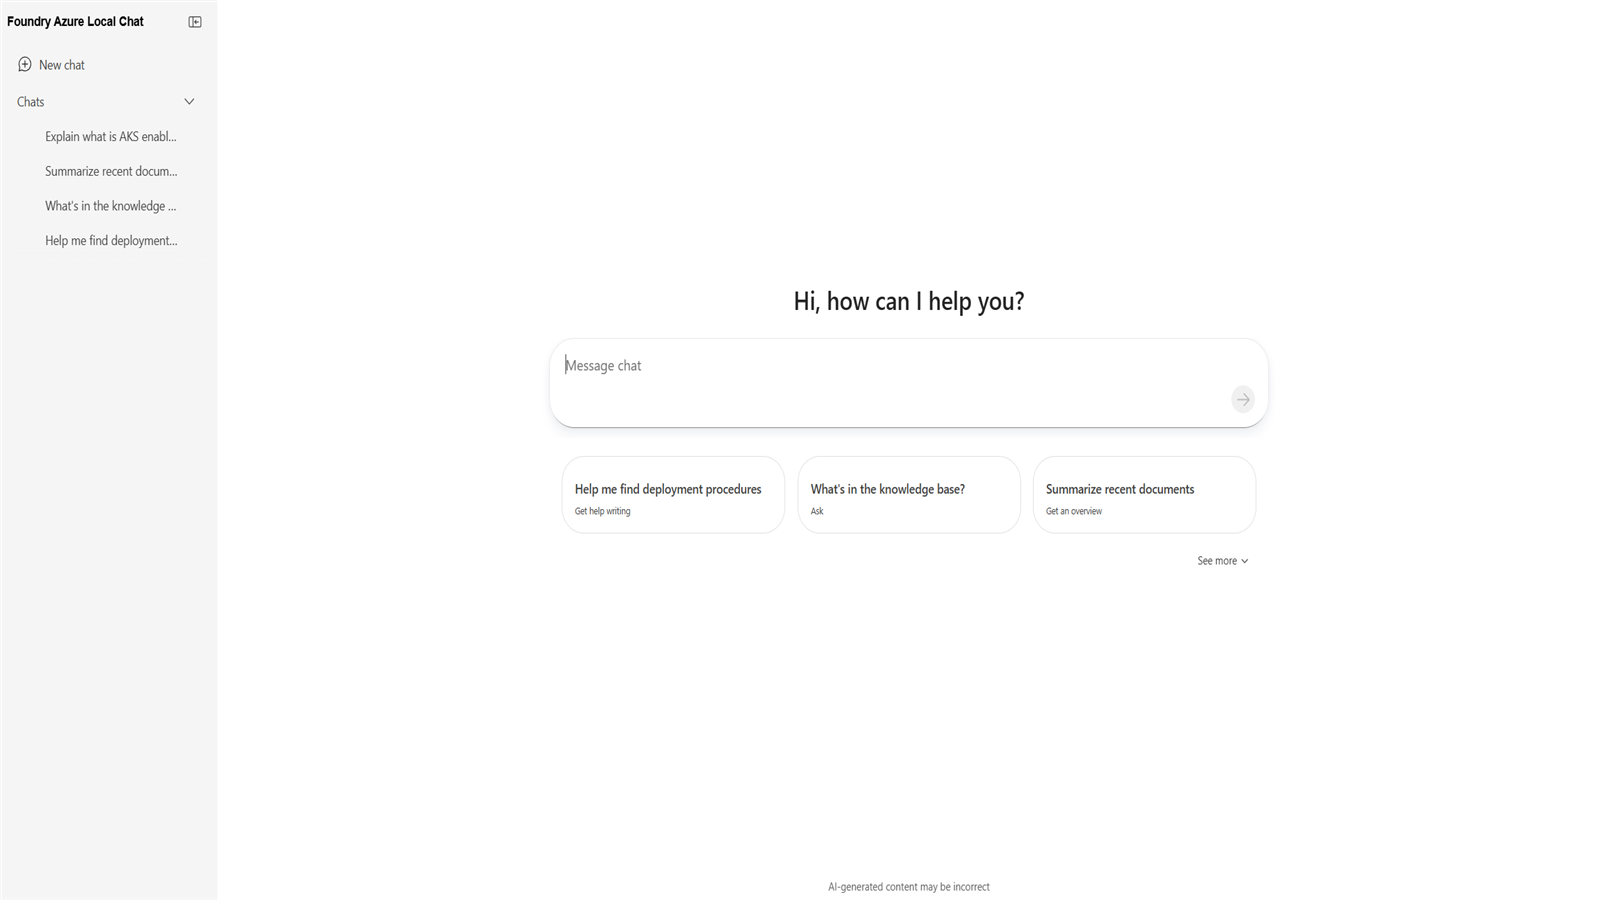
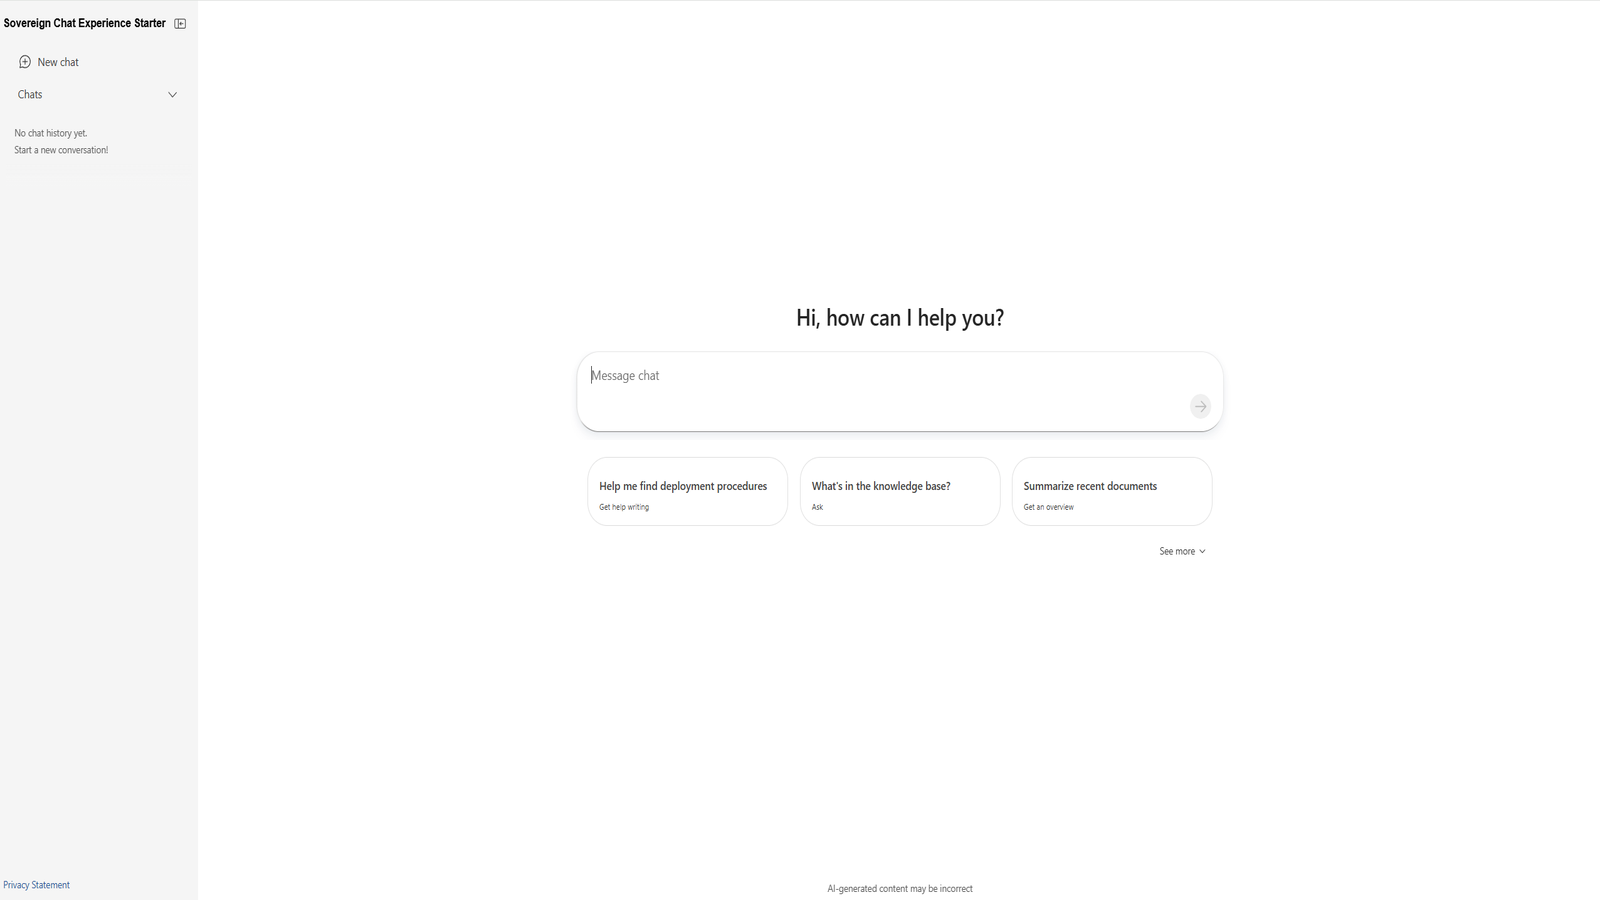
Rename project from Foundry Azure Local Chat to Sovereign Chat Experience Starter

diff --git a/src/components/ChatHistory/ChatHistory.tsx b/src/components/ChatHistory/ChatHistory.tsx
@@ -43,11 +43,13 @@ const useStyles = makeStyles({
     overflowX: "hidden",
   },
   header: {
-    display: "grid",
-    gridTemplateColumns: "max-content 1fr max-content",
+    display: "flex",
+    flexDirection: "row",
     alignItems: "center",
-    paddingInline: tokens.spacingHorizontalXS,
-    gap: tokens.spacingHorizontalS,
+    width: "100%",
+    boxSizing: "border-box",
+    paddingInline: 0,
+    gap: tokens.spacingHorizontalXXS,
     fontWeight: tokens.fontWeightSemibold,
   },
   headerButton: {
@@ -56,8 +58,9 @@ const useStyles = makeStyles({
     border: "none",
     display: "flex",
     alignItems: "center",
-    gap: tokens.spacingHorizontalS,
-    padding: `${tokens.spacingVerticalXS} ${tokens.spacingHorizontalS} ${tokens.spacingVerticalXS} 0`,
+    whiteSpace: "nowrap",
+    gap: tokens.spacingHorizontalXXS,
+    padding: `${tokens.spacingVerticalXS} 0 ${tokens.spacingVerticalXS} 0`,
     borderRadius: tokens.borderRadiusMedium,
     fontWeight: tokens.fontWeightSemibold,
     fontSize: tokens.fontSizeBase300,
@@ -170,7 +173,7 @@ export const ChatHistory = ({
         defaultOpenCategories={["chats"]}
         onNavItemSelect={handleValueChange}
       >
-        <CopilotNavDrawerHeader>
+        <CopilotNavDrawerHeader style={{ paddingInlineStart: 0 }}>
           <div className={styles.header}>
             <button className={styles.headerButton} onClick={handleAppHeaderClick} type="button">
               <AppIcon showKey="sidebar.showIcon" iconKey="sidebar.icon" size={20} />

diff --git a/docs/.vitepress/config.ts b/docs/.vitepress/config.ts
@@ -5,8 +5,8 @@ import { generateSidebar } from "vitepress-sidebar";
 import { withMermaid } from "vitepress-plugin-mermaid";
 
 export default withMermaid(defineConfig({
-  title: "Foundry Azure Local Chat",
-  description: "Documentation for Foundry Azure Local Chat",
+  title: "Sovereign Chat Experience Starter",
+  description: "Documentation for Sovereign Chat Experience Starter",
   srcDir: "src",
   outDir: "./dist",
   base: "/",

diff --git a/src/config/constants.ts b/src/config/constants.ts
@@ -33,9 +33,9 @@ const DEFAULTS: TypedConfigOptions = {
   "query.theme": "theme",
 
   // App info
-  "app.name": "Foundry Azure Local Chat",
+  "app.name": "Sovereign Chat Experience Starter",
   "app.version": "1.0.0",
-  "app.title": "Foundry Azure Local Chat",
+  "app.title": "Sovereign Chat Experience Starter",
   "app.favicon": "",
 
   // Copilot settings

diff --git a/src/localization/en.ts b/src/localization/en.ts
@@ -6,9 +6,9 @@ const TEXT = {
   "general.pageNotFound": "Sorry, we can't find that page.",
 
   // Chat
-  "chat.name": "Foundry Azure Local Chat",
+  "chat.name": "Sovereign Chat Experience Starter",
   "chat.placeholder": "Message chat",
-  "chat.ariaLabel": "Foundry Azure Local Chat",
+  "chat.ariaLabel": "Sovereign Chat Experience Starter",
   "chat.emptyState": "How can I help you today?",
   "chat.welcomeTitle": "Hi, how can I help you?",
   "chat.error": "Sorry, there was an error processing your request.",

diff --git a/server/index.ts b/server/index.ts
@@ -1,7 +1,7 @@
 // Copyright (c) Microsoft Corporation.
 // Licensed under the MIT License.
 /**
- * Foundry Azure Local Chat Server
+ * Sovereign Chat Experience Starter Server
  *
  * Reference implementation for Microsoft Foundry integration.
  * See /server/routes for API endpoints.

diff --git a/server/scripts/create-agent.js b/server/scripts/create-agent.js
@@ -18,7 +18,7 @@ import { DefaultAzureCredential } from "@azure/identity";
 const endpoint = process.env.AI_PROJECT_ENDPOINT;
 const model = process.env.AI_MODEL_DEPLOYMENT || process.env.AI_MODEL_NAME || "gpt-4o-mini";
 const agentName = process.env.AGENT_NAME || "foundry-chat-agent";
-const instructions = process.env.AGENT_INSTRUCTIONS || "You are a helpful AI assistant for the Foundry Azure Local Chat application.";
+const instructions = process.env.AGENT_INSTRUCTIONS || "You are a helpful AI assistant for the Sovereign Chat Experience Starter application.";
 
 if (!endpoint) {
   console.error("❌ AI_PROJECT_ENDPOINT is required");

diff --git a/docs/src/2-guide/localization.md b/docs/src/2-guide/localization.md
@@ -4,7 +4,7 @@ order: 4
 
 # Localization
 
-Foundry Azure Local Chat supports localization with all UI strings externalized.
+Sovereign Chat Experience Starter supports localization with all UI strings externalized.
 
 > **Note:** Currently only **English** is implemented. The i18n framework is in place and ready for adding new languages, but no additional language files ship with the project yet.
 
@@ -49,9 +49,9 @@ function MyComponent() {
 | Key | Default Value |
 |-----|---------------|
 | `chat.welcomeTitle` | `"Hi, how can I help you?"` |
-| `chat.name` | `"Foundry Azure Local Chat"` |
+| `chat.name` | `"Sovereign Chat Experience Starter"` |
 | `chat.placeholder` | `"Message chat"` |
-| `chat.ariaLabel` | `"Foundry Azure Local Chat"` |
+| `chat.ariaLabel` | `"Sovereign Chat Experience Starter"` |
 | `chat.aiDisclaimer` | `"AI-generated content may be incorrect"` |
 | `chat.promptStartersLabel` | `"Suggested prompts"` |
 | `chat.promptStartersShowMore` | `"See more"` |
@@ -89,7 +89,7 @@ getText('myFeature.description', 'dynamic')
 export const es = {
   chat: {
     welcomeTitle: '¡Hola, cómo puedo ayudarte?',
-    name: 'Foundry Azure Local Chat',
+    name: 'Sovereign Chat Experience Starter',
     // ... all other strings
   },
 };
@@ -127,8 +127,8 @@ greeting: 'Hello {0}, welcome to {1}!',
 getText('sendPrompt', 'Help me write')
 // → "Send prompt: Help me write"
 
-getText('greeting', 'John', 'Foundry Azure Local Chat')
-// → "Hello John, welcome to Foundry Azure Local Chat!"
+getText('greeting', 'John', 'Sovereign Chat Experience Starter')
+// → "Hello John, welcome to Sovereign Chat Experience Starter!"
 ```
 
 ## Best Practices
@@ -137,4 +137,3 @@ getText('greeting', 'John', 'Foundry Azure Local Chat')
 2. **Descriptive keys** - Use dot notation: `feature.element.action`
 3. **Keep strings short** - Long text should be in docs, not UI
 4. **Test with long strings** - Some languages expand text by 30%+
-

diff --git a/docs/src/2-guide/configuration.md b/docs/src/2-guide/configuration.md
@@ -4,7 +4,7 @@ order: 3
 
 # Configuration
 
-Foundry Azure Local Chat uses a type-safe configuration system with full autocomplete support.
+Sovereign Chat Experience Starter uses a type-safe configuration system with full autocomplete support.
 
 ## Overview
 
@@ -81,9 +81,9 @@ config.isNotEmpty("chat.maxLength")
 
 | Key           | Type   | Default            | Description                       |
 | ------------- | ------ | ------------------ | --------------------------------- |
-| `app.name`    | string | `"Foundry Azure Local Chat"`   | Application display name          |
+| `app.name`    | string | `"Sovereign Chat Experience Starter"`   | Application display name          |
 | `app.version` | string | `"1.0.0"`          | Application version number        |
-| `app.title`   | string | `"Foundry Azure Local Chat"`   | Page title (shown in browser tab) |
+| `app.title`   | string | `"Sovereign Chat Experience Starter"`   | Page title (shown in browser tab) |
 | `app.favicon` | string | `"/favicon.ico"`   | Path to favicon file              |
 
 ### Storage Keys

diff --git a/README.md b/README.md
@@ -1,4 +1,4 @@
-# Foundry Azure Local Chat
+# Sovereign Chat Experience Starter
 
 A reusable Chat UI for AI experiences, built on the Azure OpenAI Responses API standard and Fluent AI components. It connects to a MS Foundry project and is designed to be deployed on Azure Kubernetes Service (AKS) clusters. The application features a chat interface, chat history, streaming responses, and a pluggable provider architecture that supports both live MS Foundry backends and an in-memory mock mode for offline development.
 
@@ -44,7 +44,7 @@ This project framework provides the following features:
 
 <br/>
 
-| ![Application screenshot showing the Foundry Azure Local Chat interface with sidebar chat history and message input](docs/images/output_screenshot.png) |
+| ![Application screenshot showing the Sovereign Chat Experience Starter interface with sidebar chat history and message input](docs/images/output_screenshot.png) |
 |---|
 
 ### Demo Video

diff --git a/docs/README.md b/docs/README.md
@@ -1,6 +1,6 @@
-# Foundry Azure Local Chat Documentation
+# Sovereign Chat Experience Starter Documentation
 
-Documentation site for Foundry Azure Local Chat built with [VitePress](https://vitepress.dev/).
+Documentation site for Sovereign Chat Experience Starter built with [VitePress](https://vitepress.dev/).
 
 ## Development
 

diff --git a/docs/src/3-deployment/deploy.md b/docs/src/3-deployment/deploy.md
@@ -4,7 +4,7 @@ order: 1
 
 # Deployment Guide
 
-Complete guide for deploying foundry-azure-local-chat to Azure using `azd`.
+Complete guide for deploying sovereign-chat-experience-starter to Azure using `azd`.
 
 ## Recipe-Based Deploy (Recommended)
 
@@ -76,7 +76,7 @@ azd up -- -y
 On a new machine (or fresh clone), resume with just the prefix and subscription:
 
 ```bash
-git clone <repo-url> && cd foundry-azure-local-chat
+git clone <repo-url> && cd sovereign-chat-experience-starter
 azd env new <existing-prefix>                     # must match original env name
 azd env set AZURE_SUBSCRIPTION_ID <sub-id>
 azd up

diff --git a/docs/src/3-deployment/quickstart-deploy.md b/docs/src/3-deployment/quickstart-deploy.md
@@ -2,7 +2,7 @@
 
 ## Overview
 
-This guide walks you through deploying the Foundry Azure Local Chat application to your Azure subscription. Choose the deployment environment that best suits your needs.
+This guide walks you through deploying the Sovereign Chat Experience Starter application to your Azure subscription. Choose the deployment environment that best suits your needs.
 
 This template uses **gpt-4o-mini** which may not be available in all Azure regions. Check for [up-to-date region availability](https://learn.microsoft.com/azure/ai-services/openai/concepts/models#standard-deployment-model-availability) and select a region during deployment accordingly.
 
@@ -111,7 +111,7 @@ A related option is VS Code Dev Containers, which will open the project in your 
 1. Bring down the template code:
 
     ```shell
-    azd init --template foundry-azure-local-chat
+    azd init --template sovereign-chat-experience-starter
     ```
 
 2. Sign into your Azure account: